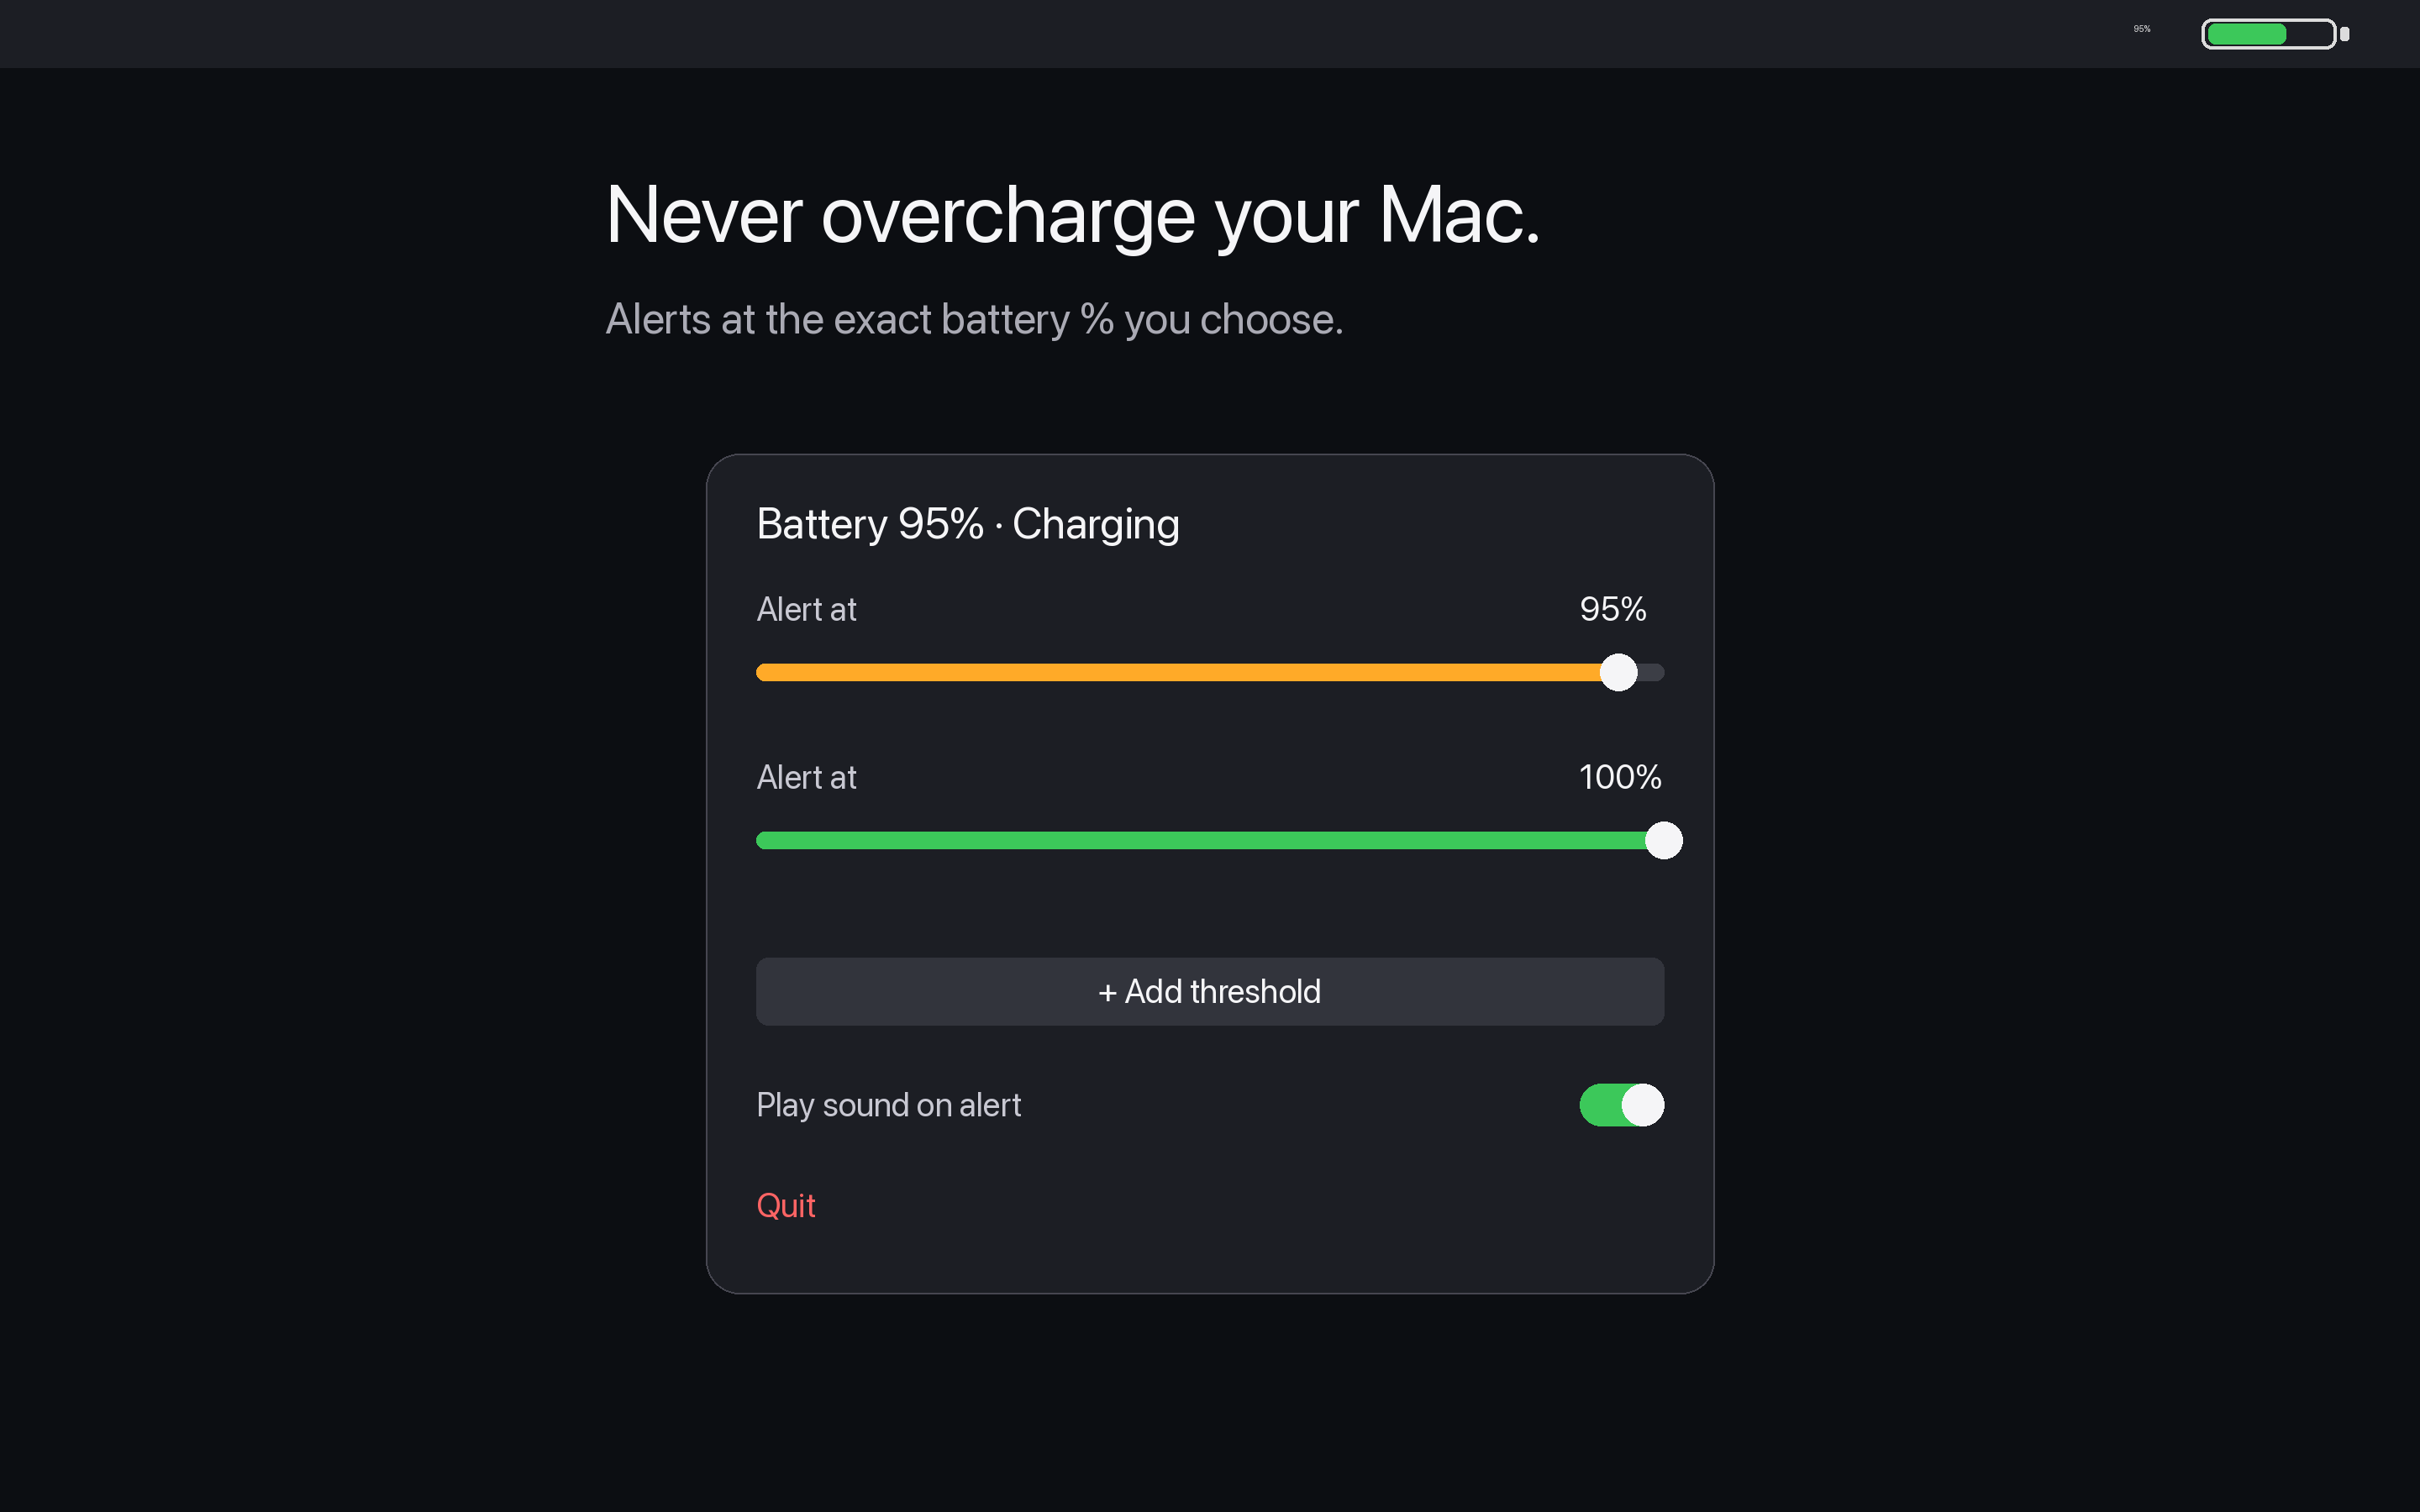
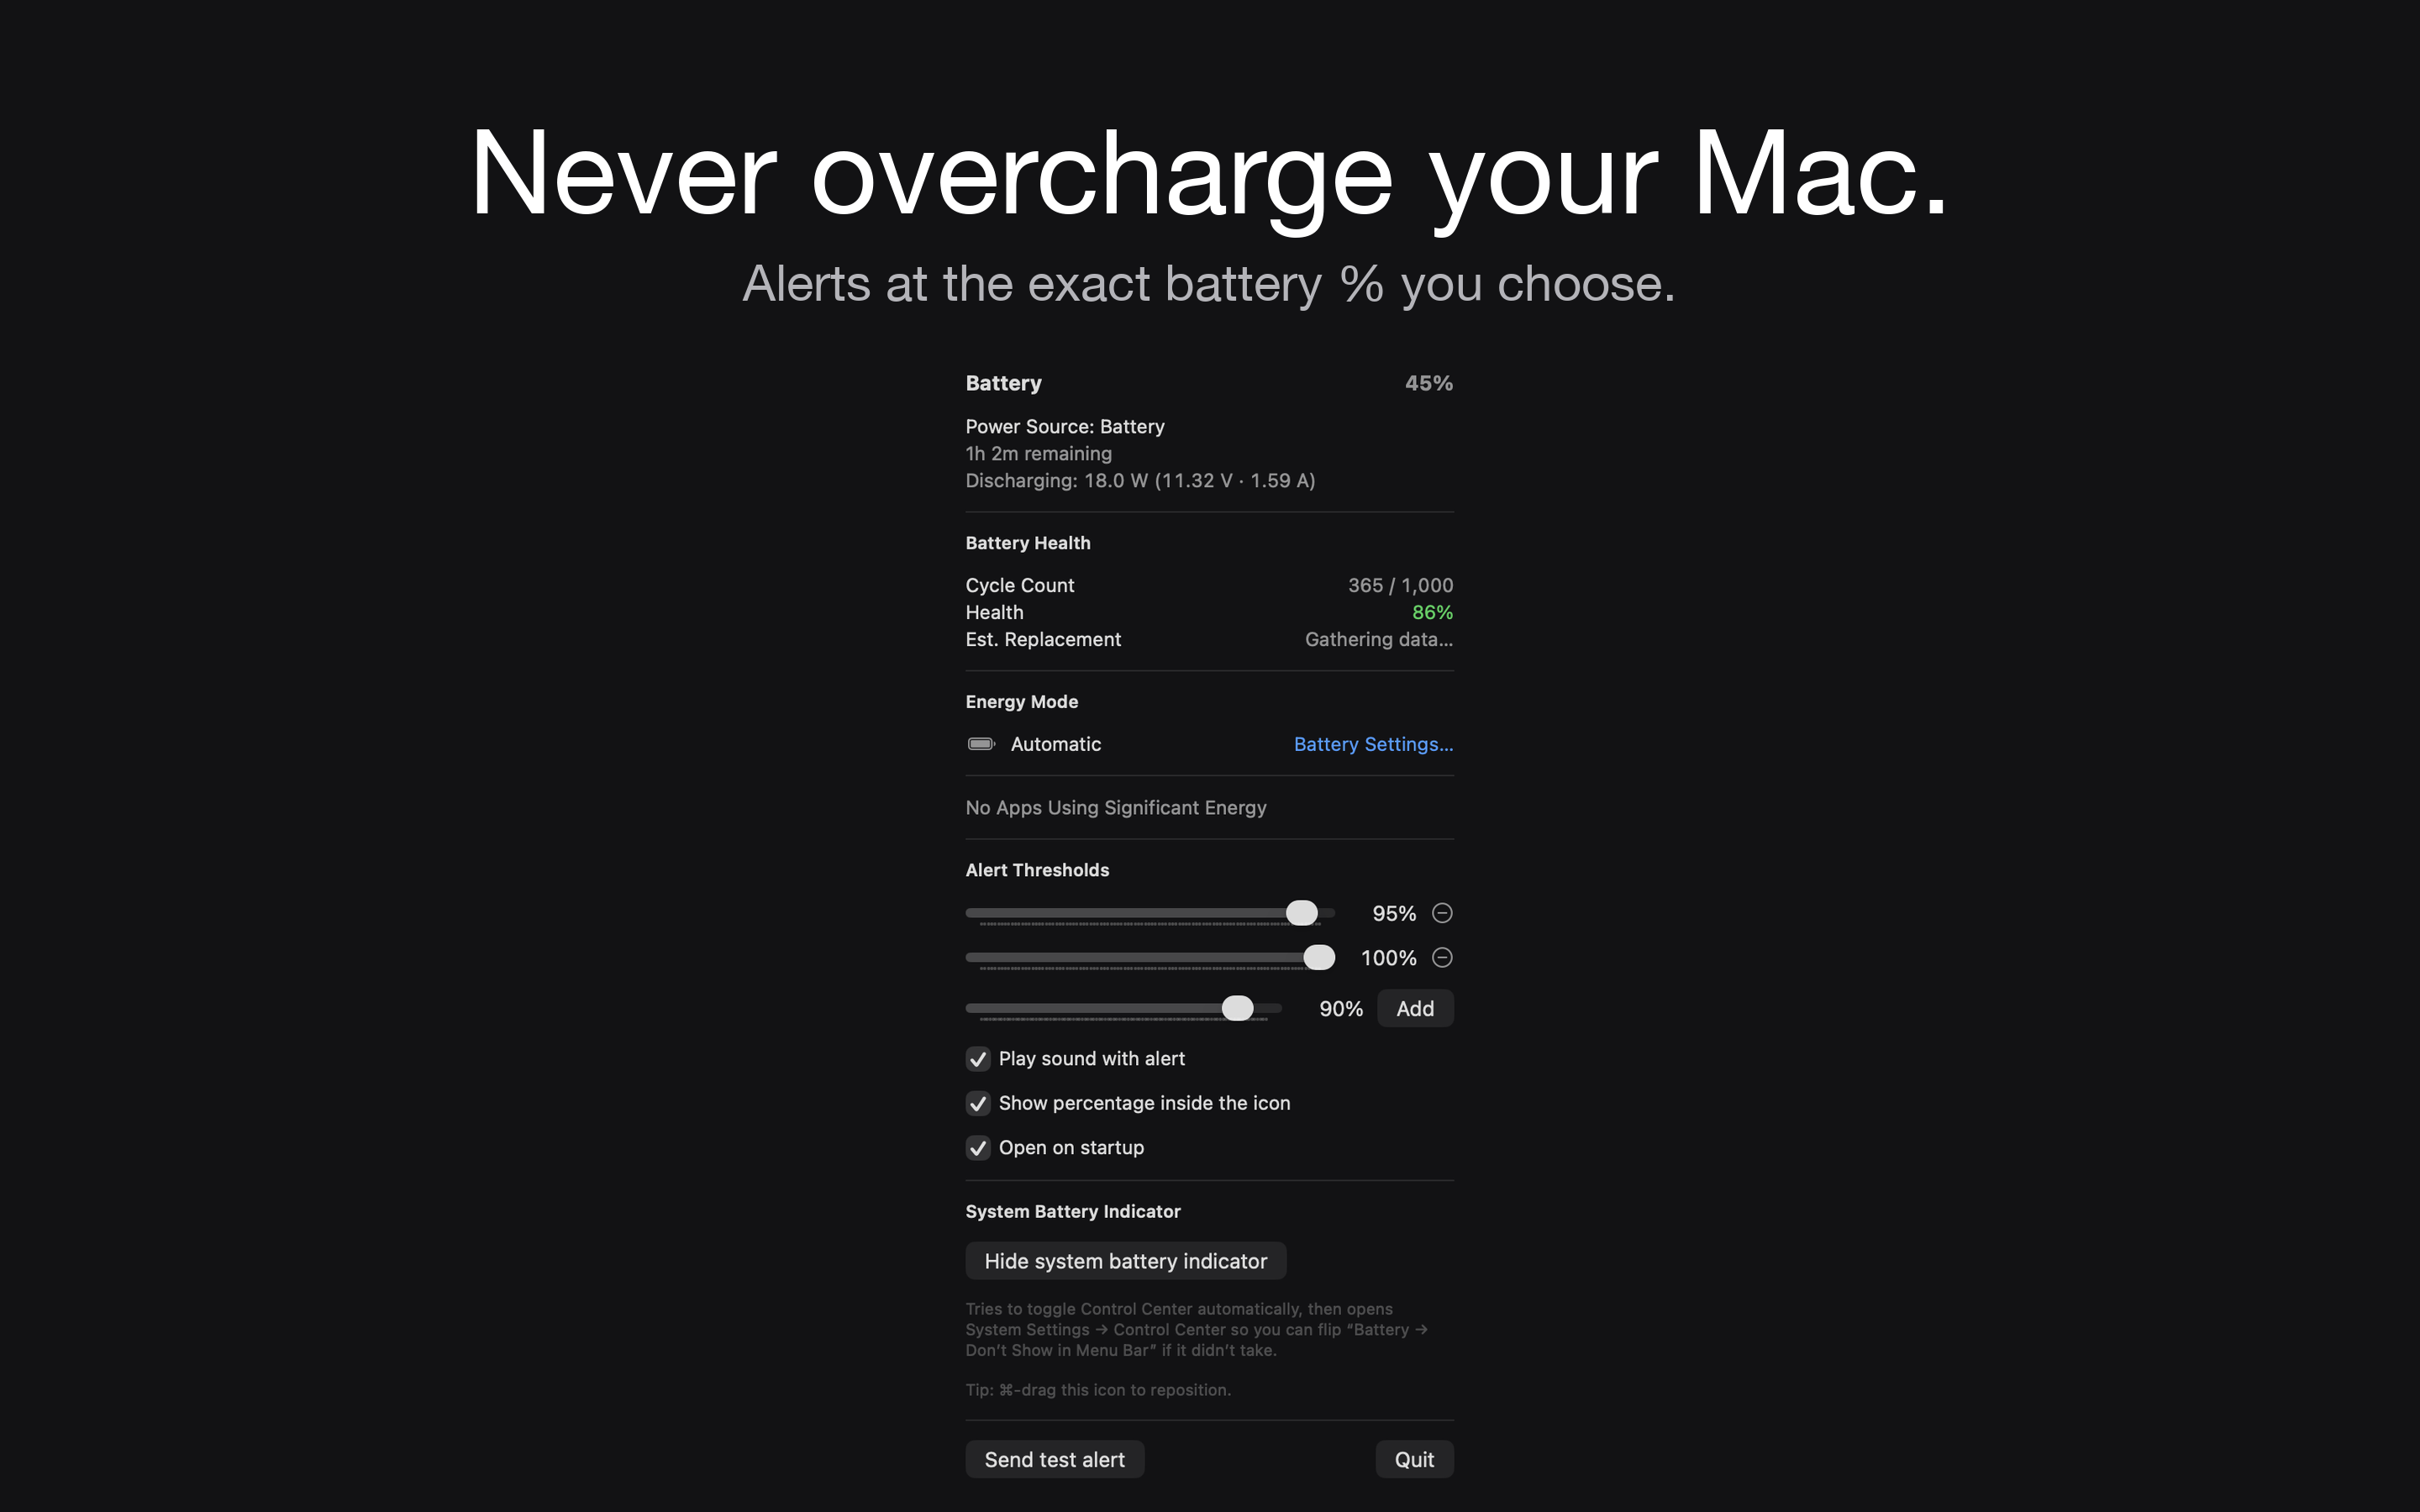
Replace mock screenshot with real popover capture (#3)
Adds an env-gated screenshot mode (FBA_SCREENSHOT_OUT) to the app that
renders the actual SettingsView in a real NSWindow and captures it via
CGWindowListCreateImage, so App Store screenshots are built from live
UI code rather than mockups. Bundled compose_screenshot.py composites
the capture onto a 2880x1800 hero canvas.

diff --git a/Sources/FullBatteryAlert/ScreenshotRenderer.swift b/Sources/FullBatteryAlert/ScreenshotRenderer.swift
@@ -1,0 +1,47 @@
+import SwiftUI
+import AppKit
+
+@MainActor
+enum ScreenshotRenderer {
+    static func render(settings: AppSettings, battery: BatteryMonitor, energy: EnergyMonitor, to path: String) {
+        NSApp.setActivationPolicy(.regular)
+        NSApp.appearance = NSAppearance(named: .darkAqua)
+
+        let root = SettingsView(settings: settings, battery: battery, energy: energy)
+            .background(Color(nsColor: NSColor(red: 0.07, green: 0.07, blue: 0.08, alpha: 1.0)))
+            .environment(\.colorScheme, .dark)
+
+        let host = NSHostingView(rootView: root)
+        host.appearance = NSAppearance(named: .darkAqua)
+        host.layoutSubtreeIfNeeded()
+        let size = host.fittingSize
+        host.frame = NSRect(origin: .zero, size: size)
+        host.layoutSubtreeIfNeeded()
+
+        // Place far enough off-screen that it can't appear on any visible display
+        // but is still committed to the window server for CGWindowListCreateImage.
+        let window = NSWindow(
+            contentRect: NSRect(x: -10_000, y: -10_000, width: size.width, height: size.height),
+            styleMask: [.borderless], backing: .buffered, defer: false
+        )
+        window.appearance = NSAppearance(named: .darkAqua)
+        window.isOpaque = true
+        window.backgroundColor = NSColor(red: 0.07, green: 0.07, blue: 0.08, alpha: 1.0)
+        window.contentView = host
+        window.orderFrontRegardless()
+
+        DispatchQueue.main.asyncAfter(deadline: .now() + 1.2) {
+            let windowID = CGWindowID(window.windowNumber)
+            guard let cgImage = CGWindowListCreateImage(
+                .null, .optionIncludingWindow, windowID, [.bestResolution, .boundsIgnoreFraming]
+            ) else {
+                NSApp.terminate(nil); return
+            }
+            let rep = NSBitmapImageRep(cgImage: cgImage)
+            if let data = rep.representation(using: .png, properties: [:]) {
+                try? data.write(to: URL(fileURLWithPath: path))
+            }
+            NSApp.terminate(nil)
+        }
+    }
+}

diff --git a/Sources/FullBatteryAlert/App.swift b/Sources/FullBatteryAlert/App.swift
@@ -23,6 +23,12 @@ final class AppDelegate: NSObject, NSApplicationDelegate {
     private var settingsCancellable: Any?
 
     func applicationDidFinishLaunching(_ notification: Notification) {
+        if let outPath = ProcessInfo.processInfo.environment["FBA_SCREENSHOT_OUT"] {
+            ScreenshotRenderer.render(
+                settings: settings, battery: battery, energy: energy, to: outPath
+            )
+            return
+        }
         NSApp.setActivationPolicy(.accessory)
         setupStatusItem()
         setupPopovers()

diff --git a/scripts/compose_screenshot.py b/scripts/compose_screenshot.py
@@ -1,0 +1,57 @@
+#!/usr/bin/env python3
+"""Composite the real popover capture onto a 2880x1800 App Store hero image."""
+import sys
+from PIL import Image, ImageDraw, ImageFont
+
+POPOVER = sys.argv[1] if len(sys.argv) > 1 else "/tmp/popover.png"
+OUT = sys.argv[2] if len(sys.argv) > 2 else "fastlane/screenshots/en-US/01-main.png"
+HEADLINE = "Never overcharge your Mac."
+SUBHEAD = "Alerts at the exact battery % you choose."
+
+W, H = 2880, 1800
+BG = (18, 18, 20)  # very dark gray to match popover
+
+canvas = Image.new("RGB", (W, H), BG)
+draw = ImageDraw.Draw(canvas)
+
+# Try a couple of system font paths in priority order.
+def load_font(size, weight="Bold"):
+    candidates = [
+        f"/System/Library/Fonts/SF-Pro-Display-{weight}.otf",
+        f"/System/Library/Fonts/SFNS{'Display-Bold' if weight=='Bold' else 'Display'}.ttf",
+        "/System/Library/Fonts/HelveticaNeue.ttc",
+        "/Library/Fonts/Arial.ttf",
+    ]
+    for p in candidates:
+        try:
+            return ImageFont.truetype(p, size)
+        except OSError:
+            continue
+    return ImageFont.load_default()
+
+font_h = load_font(140, "Bold")
+font_s = load_font(60, "Regular")
+
+# Headline centered horizontally near top.
+def draw_centered(text, font, y, fill):
+    bbox = draw.textbbox((0, 0), text, font=font)
+    tw = bbox[2] - bbox[0]
+    draw.text(((W - tw) / 2, y), text, font=font, fill=fill)
+
+draw_centered(HEADLINE, font_h, 120, (255, 255, 255))
+draw_centered(SUBHEAD, font_s, 300, (180, 180, 185))
+
+# Popover centered below text.
+pop = Image.open(POPOVER).convert("RGBA")
+# Scale popover to dominate the lower portion of the canvas.
+target_h = 1380
+ratio = target_h / pop.height
+target_w = int(pop.width * ratio)
+pop = pop.resize((target_w, target_h), Image.LANCZOS)
+
+px = (W - target_w) // 2
+py = 410
+canvas.paste(pop, (px, py), pop)
+
+canvas.save(OUT, "PNG", optimize=True)
+print(f"wrote {OUT} ({W}x{H})")